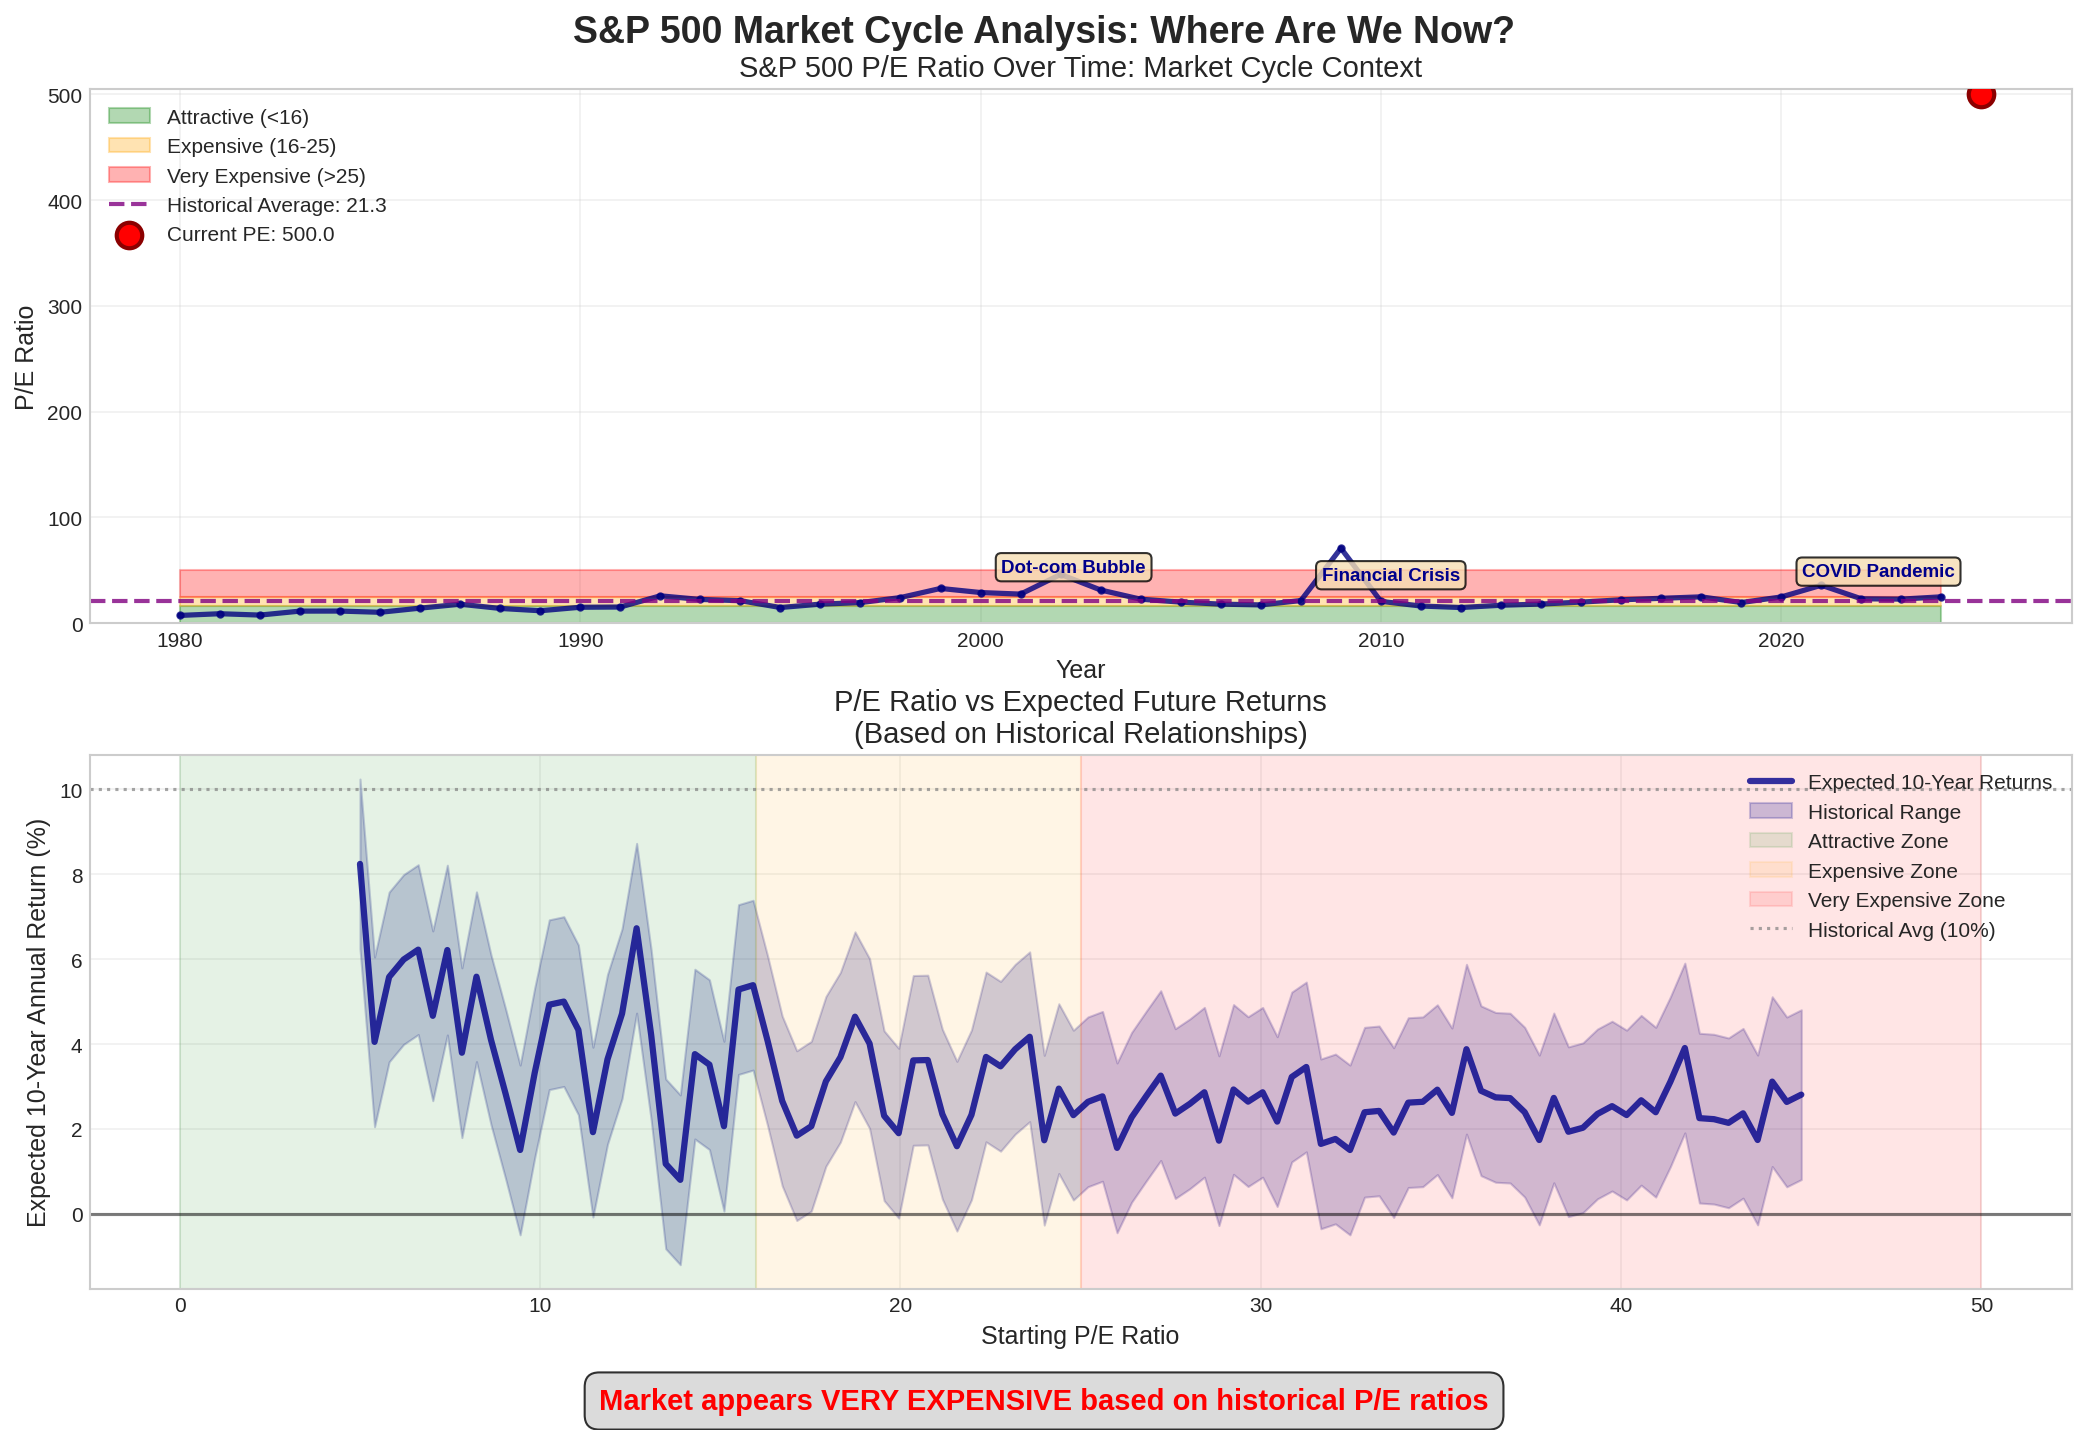
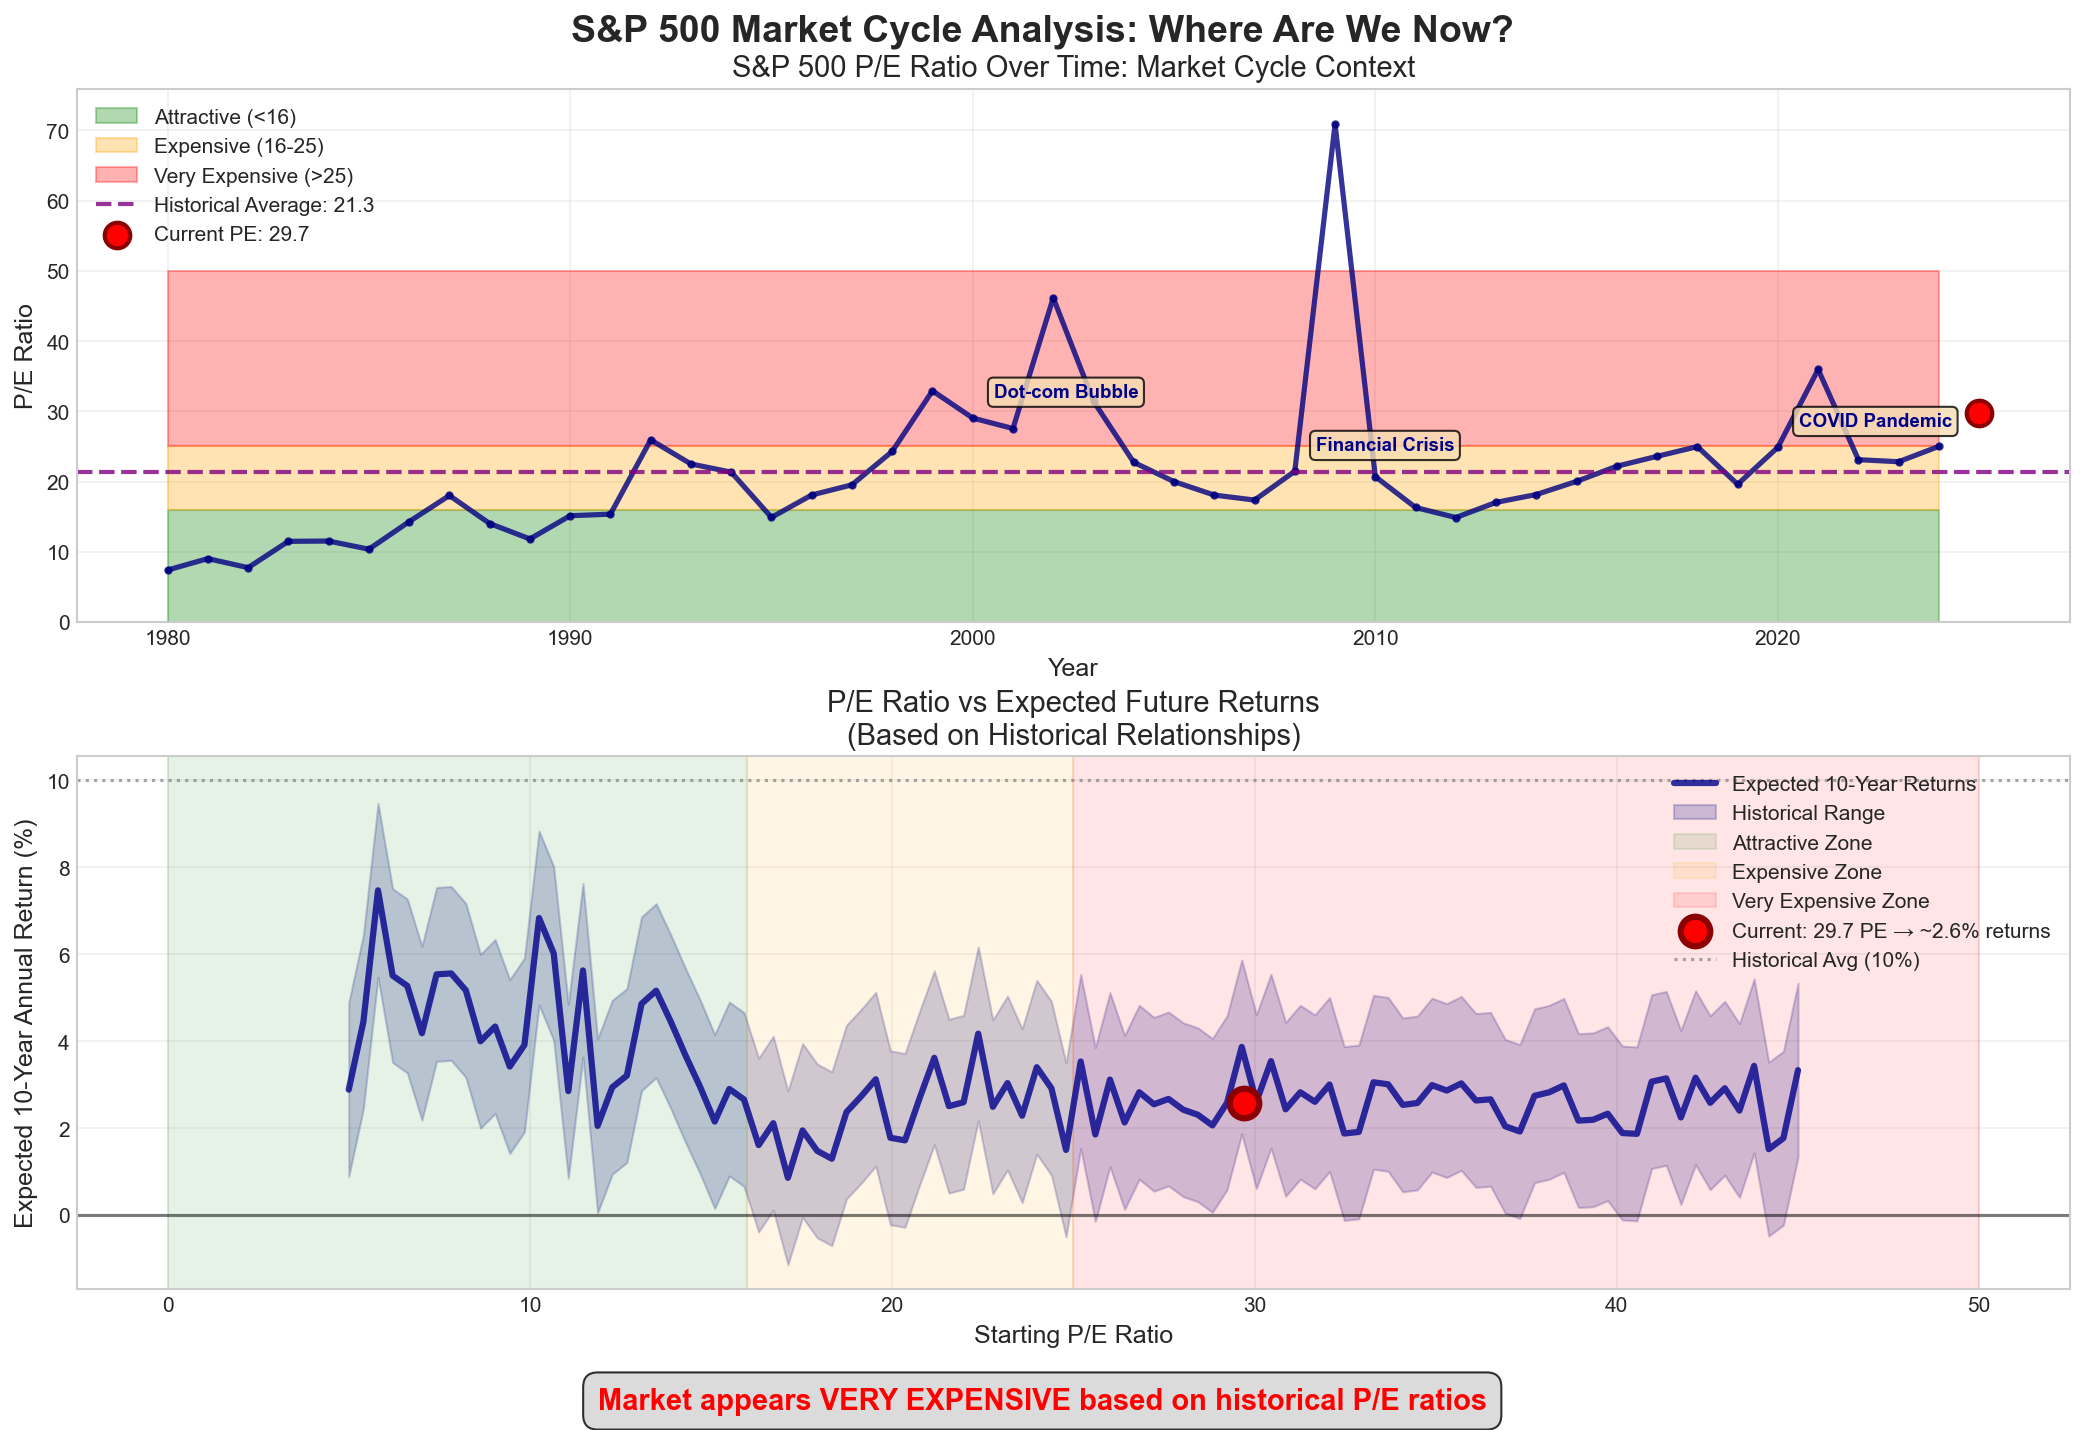
Fix PE ratio scraping bug
- Fixed regex pattern that was incorrectly capturing '500' from 'S&P 500'
- Now correctly extracts PE value after 'PE Ratio:' text
- Updated data now shows realistic PE of 29.7 instead of 500
- Weekly data collection working properly

diff --git a/scripts/debug_scraper.py b/scripts/debug_scraper.py
@@ -1,0 +1,64 @@
+#!/usr/bin/env python3
+import requests
+from bs4 import BeautifulSoup
+import re
+
+def debug_pe_scraping():
+    """Debug the PE ratio scraping"""
+    url = "https://www.multpl.com/s-p-500-pe-ratio"
+    headers = {
+        'User-Agent': 'Mozilla/5.0 (Macintosh; Intel Mac OS X 10_15_7) AppleWebKit/537.36 (KHTML, like Gecko) Chrome/91.0.4472.124 Safari/537.36'
+    }
+    
+    print(f"Fetching from: {url}")
+    try:
+        response = requests.get(url, headers=headers, timeout=10)
+        print(f"Status code: {response.status_code}")
+        response.raise_for_status()
+        
+        soup = BeautifulSoup(response.content, 'html.parser')
+        
+        # Debug: print page title
+        title = soup.find('title')
+        print(f"Page title: {title.text if title else 'No title found'}")
+        
+        # Try to find the current value
+        selectors = [
+            '#current',
+            '.current-value',
+            '[data-current-value]',
+            'div#current',
+            'div.metric-value',
+            'div.value'
+        ]
+        
+        print("\nTrying selectors:")
+        for selector in selectors:
+            element = soup.select_one(selector)
+            if element:
+                print(f"  {selector}: {element.get_text().strip()[:50]}")
+        
+        # Look for any numbers that could be PE ratios
+        text = soup.get_text()
+        numbers = re.findall(r'(\d{1,3}\.\d{1,2})', text)
+        print(f"\nNumbers found on page (first 10): {numbers[:10]}")
+        
+        # Filter for reasonable PE values
+        pe_candidates = [float(n) for n in numbers if 5 <= float(n) <= 50]
+        print(f"Potential PE values (5-50 range): {pe_candidates[:5]}")
+        
+        # Look for text containing "Current" near numbers
+        lines = text.split('\n')
+        for i, line in enumerate(lines):
+            if 'current' in line.lower() and i < len(lines) - 1:
+                print(f"\n'Current' found in line: {line.strip()}")
+                print(f"Next line: {lines[i+1].strip() if i+1 < len(lines) else 'N/A'}")
+                break
+                
+    except Exception as e:
+        print(f"Error: {e}")
+        import traceback
+        traceback.print_exc()
+
+if __name__ == "__main__":
+    debug_pe_scraping()

diff --git a/scripts/update_market_data.py b/scripts/update_market_data.py
@@ -91,11 +91,18 @@ class MarketDataUpdater:
                     element = soup.select_one(selector)
                     if element:
                         text = element.get_text().strip()
-                        # Extract number from text like "29.60" or "29.60 (Dec 27, 2024)"
-                        import re
-                        match = re.search(r'(\d+\.?\d*)', text)
-                        if match:
-                            pe_value = float(match.group(1))
+                        # Split by newlines and look for PE value after "PE Ratio:"
+                        lines = text.split('\n')
+                        for i, line in enumerate(lines):
+                            if 'PE Ratio:' in line and i < len(lines) - 1:
+                                # The PE value is usually on the next line
+                                next_line = lines[i + 1].strip()
+                                import re
+                                match = re.search(r'^(\d+\.?\d*)$', next_line)
+                                if match:
+                                    pe_value = float(match.group(1))
+                                    break
+                        if pe_value:
                             break
                 except:
                     continue
